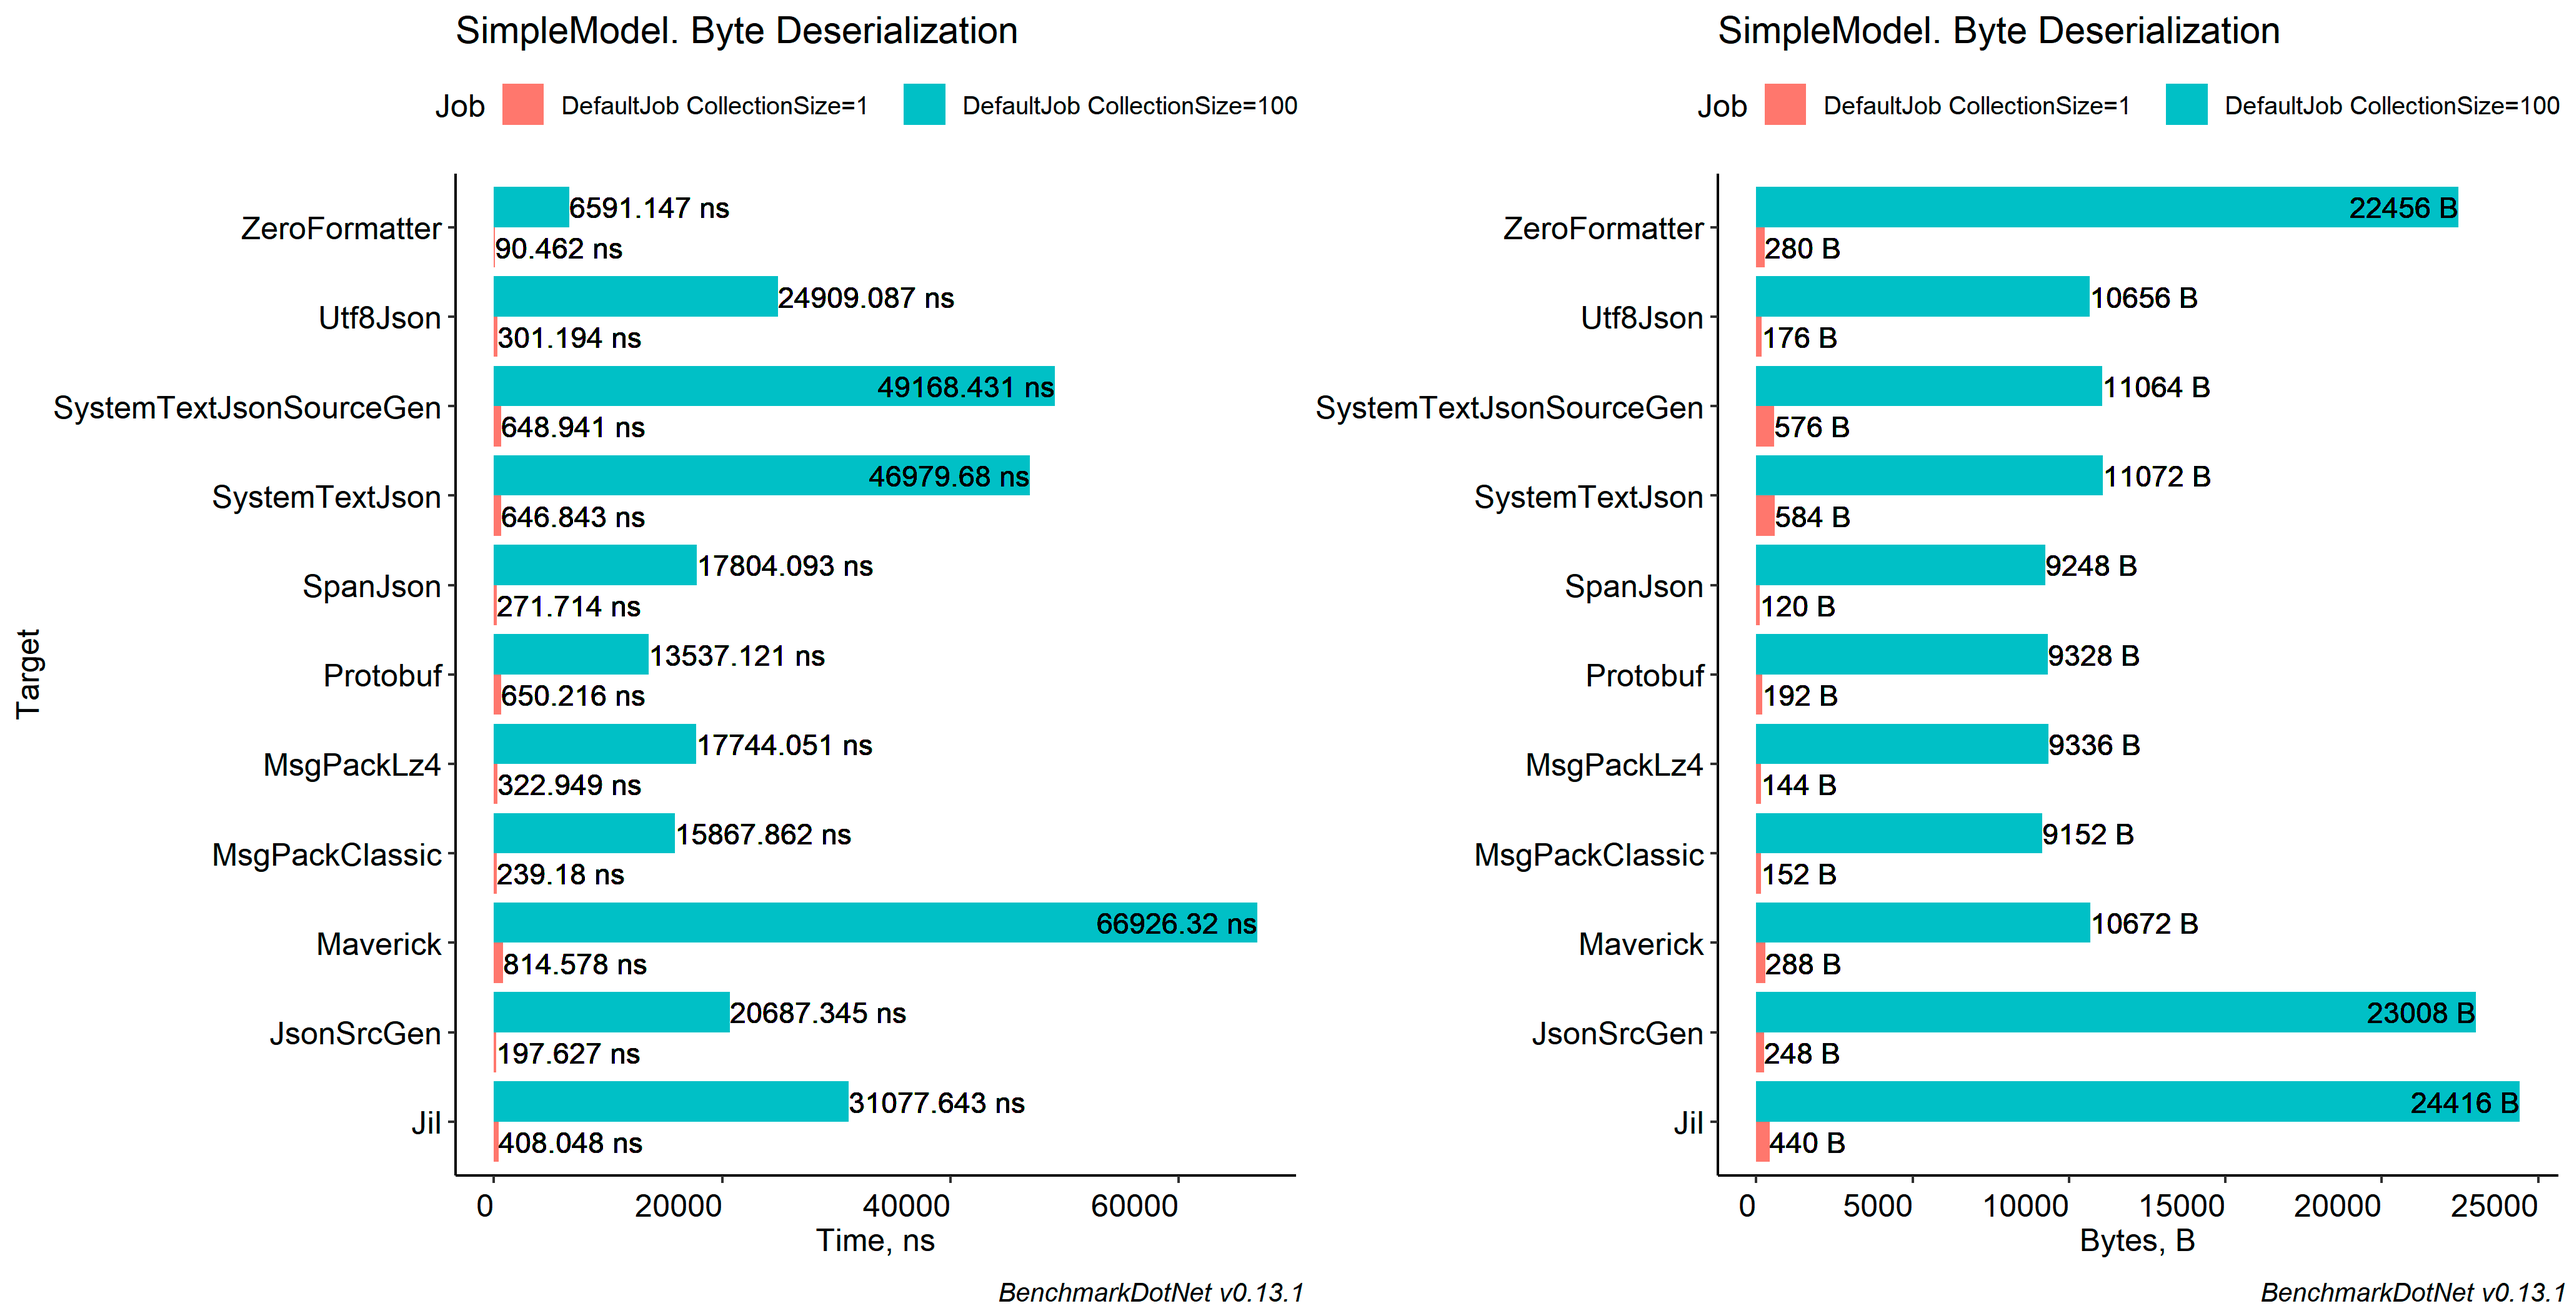
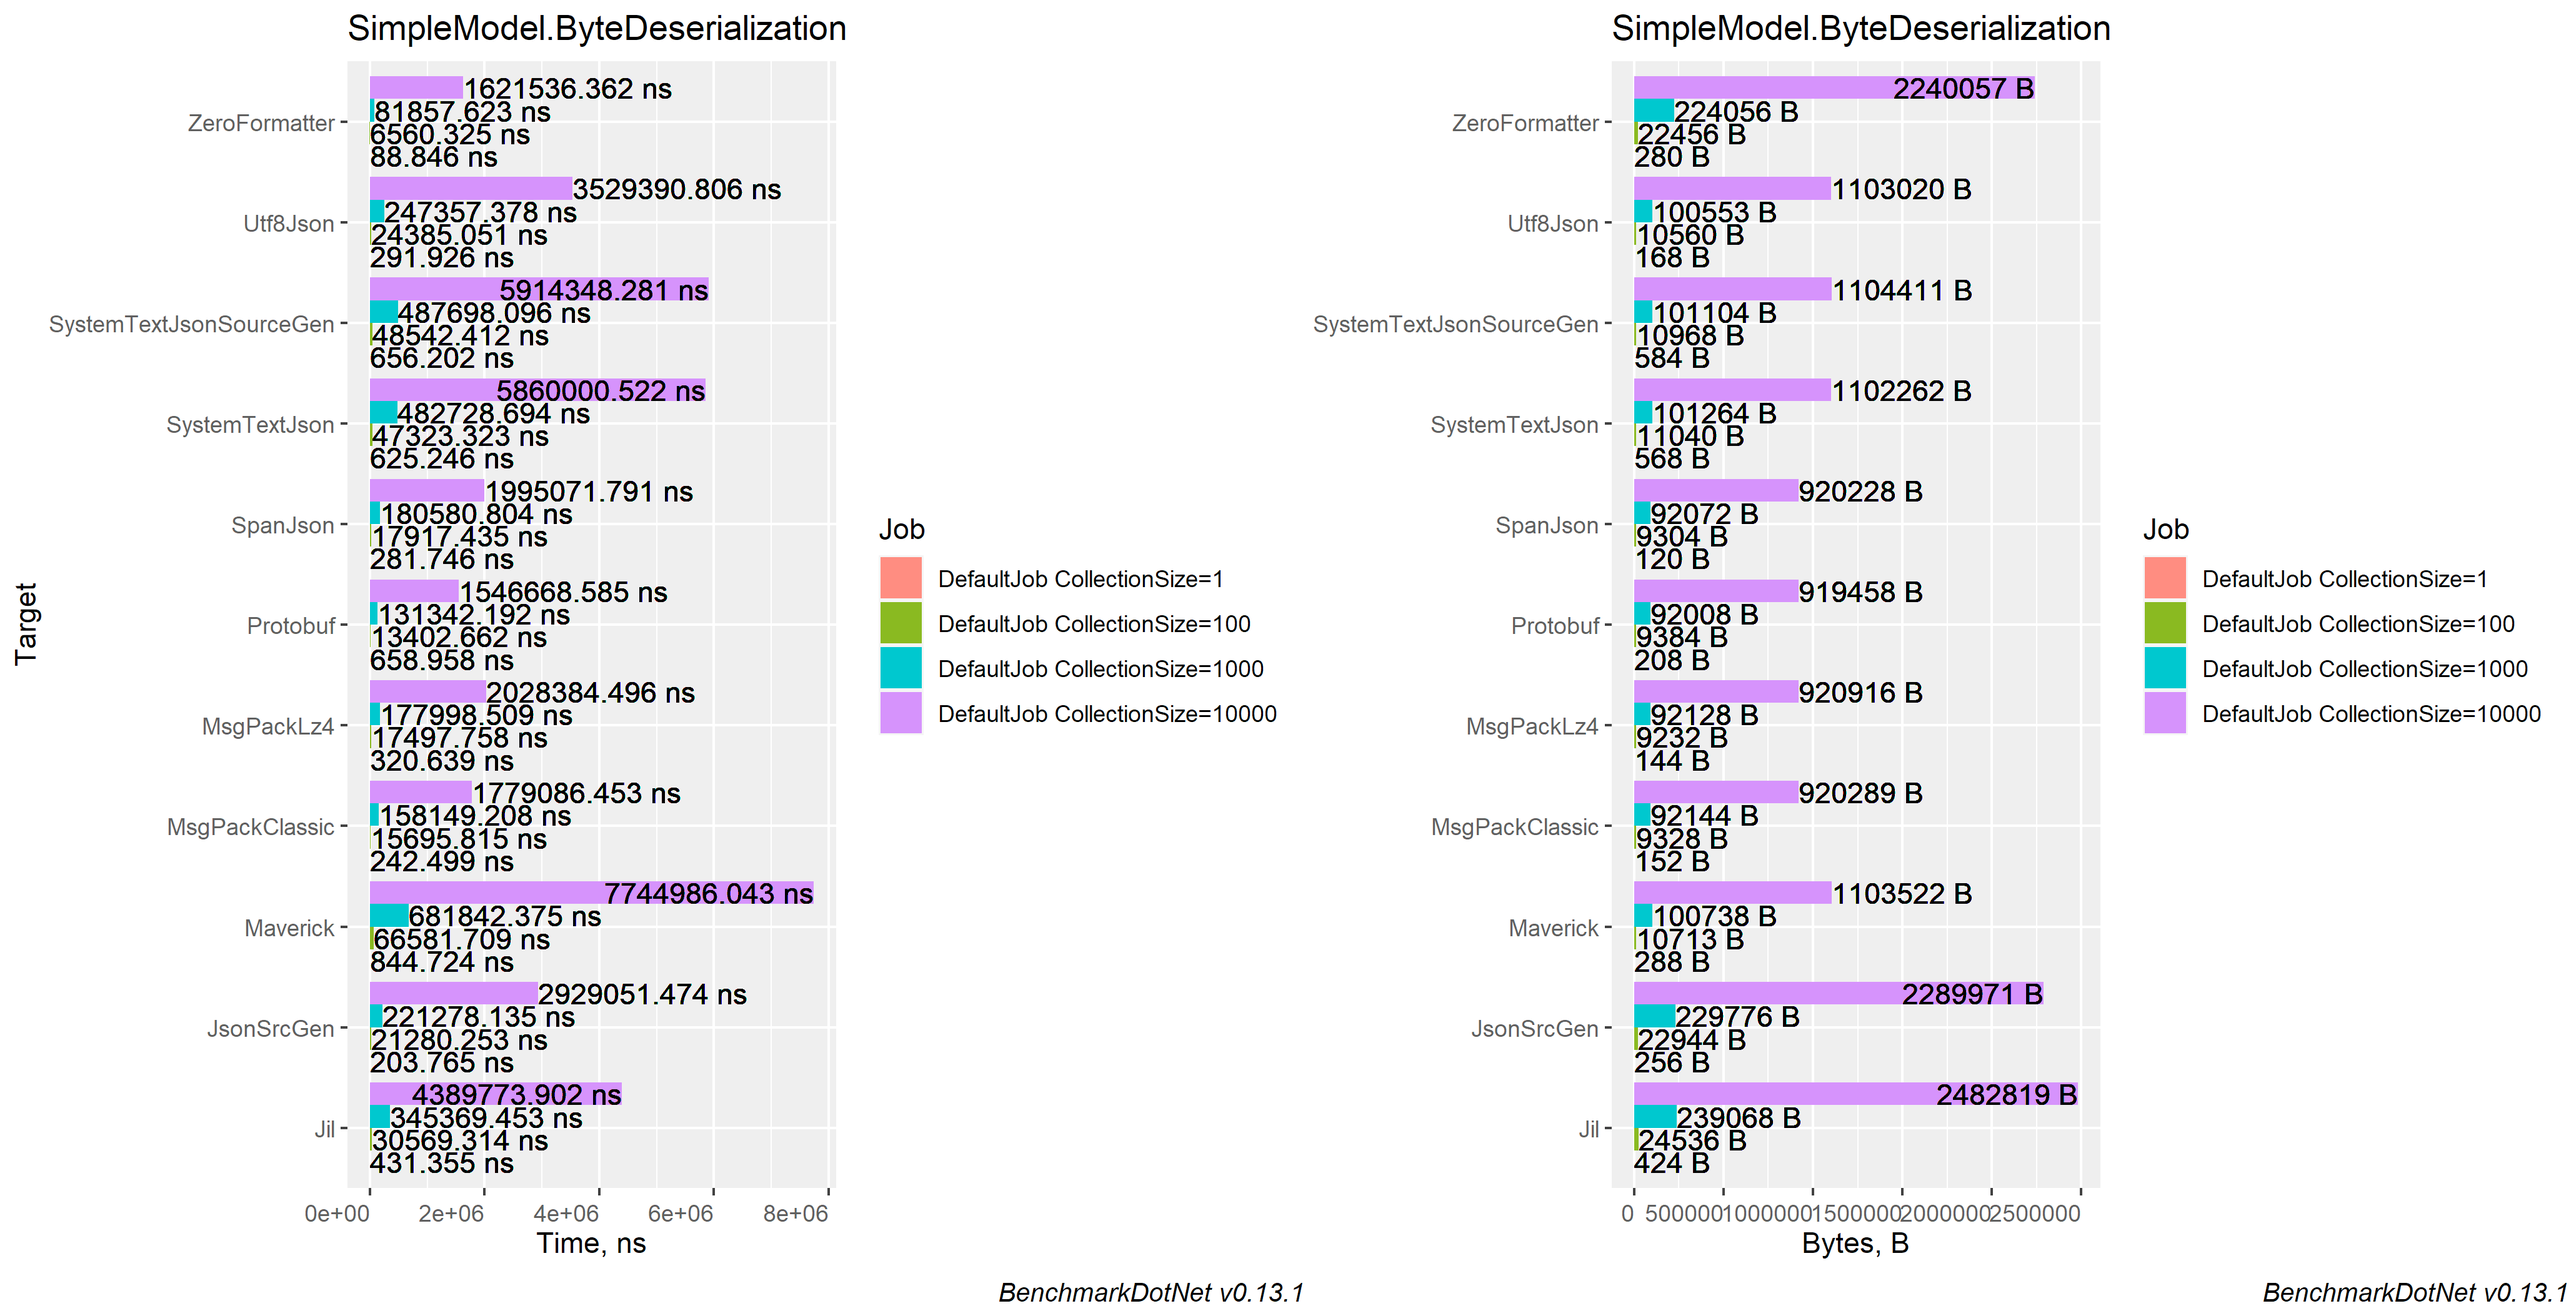
Updated graphs

diff --git a/Json/Json.Benchmarks/Benchmarks/JsonComplexBenchmark.cs b/Json/Json.Benchmarks/Benchmarks/JsonComplexBenchmark.cs
@@ -34,7 +34,7 @@ public class JsonComplexBenchmark
     ///     Size of generation.
     ///     **NOTE:** Intentionally left public for BenchmarkDotNet Params.
     /// </summary>
-    [Params(100)]
+    [Params(1)]
     public int CollectionSize { get; set; }
     
     /// <summary>

diff --git a/Json/Json.Benchmarks/Benchmarks/JsonSimpleBenchmark.cs b/Json/Json.Benchmarks/Benchmarks/JsonSimpleBenchmark.cs
@@ -33,7 +33,7 @@ public class JsonSimpleBenchmark
     ///     Size of generation.
     ///     **NOTE:** Intentionally left public for BenchmarkDotNet Params.
     /// </summary>
-    [Params(100)]
+    [Params(1)]
     public int CollectionSize { get; set; }
     
     /// <summary>

diff --git a/Json/Readme.md b/Json/Readme.md
@@ -112,6 +112,7 @@ Currently, following Json Serialization/Deserialization libraries were used:
 | ServiceStack            | 10000 |  9,075,525.9 ns |  99,487.18 ns |  93,060.37 ns | 24,028.08 ns |       110.19 | 1,743,036 B |
 | Newtonsoft              | 10000 | 12,370,230.3 ns | 198,311.11 ns | 185,500.34 ns | 47,895.98 ns |        80.84 | 1,587,084 B |
 
+![Plot](assets/SimpleModel.Single.StringDeserialization.png)
 ![Plot](assets/SimpleModel.StringDeserialization.png)
 
 <a name="byte-simple-deserialization"></a>
@@ -166,6 +167,7 @@ Currently, following Json Serialization/Deserialization libraries were used:
 | SystemTextJson          | 10000 | 5,992,005.31 ns |  79,189.562 ns |  74,073.966 ns | 19,125.816 ns |        166.9 | 1,103,488 B |
 | Maverick                | 10000 | 7,947,780.99 ns | 151,751.022 ns | 162,371.893 ns | 38,271.422 ns |        125.8 | 1,102,361 B |
 
+![Plot](assets/SimpleModel.Single.ByteDeserialization.png)
 ![Plot](assets/SimpleModel.ByteDeserialization.png)
 
 <a name="stream-simple-deserialization"></a>
@@ -212,6 +214,7 @@ Currently, following Json Serialization/Deserialization libraries were used:
 | Maverick                | 10000 | 7,866,861.1 ns | 111,444.32 ns |  98,792.49 ns | 26,403.40 ns |       127.1 | 1,794,576 B |
 | ServiceStack            | 10000 | 9,925,313.6 ns | 194,365.66 ns | 181,809.75 ns | 46,943.08 ns |       100.8 | 2,455,969 B |
 
+![Plot](assets/SimpleModel.Single.StreamDeserialization.png)
 ![Plot](assets/SimpleModel.StreamDeserialization.png)
 
 <a name="async-stream-simple-deserialization"></a>
@@ -254,6 +257,7 @@ Currently, following Json Serialization/Deserialization libraries were used:
 | SystemTextJsonSourceGen | 10000 | 7,231,093.2 ns |  61,710.41 ns |  51,530.99 ns | 14,292.12 ns |       138.3 | 1,102,781 B |
 | ServiceStack            | 10000 | 9,965,140.6 ns | 198,610.71 ns | 236,431.92 ns | 51,593.67 ns |       100.3 | 2,455,440 B |
 
+![Plot](assets/SimpleModel.Single.AsyncStreamDeserialization.png)
 ![Plot](assets/SimpleModel.AsyncStreamDeserialization.png)
 
 <a name="complex-model-deserialization"></a>
@@ -307,6 +311,7 @@ Currently, following Json Serialization/Deserialization libraries were used:
 | ServiceStack            | 10000 | 327,034.138 μs | 3,144.7504 μs | 2,626.0090 μs |   728.3239 μs |       3.058 |  68,363 KB |
 | Newtonsoft              | 10000 | 402,045.971 μs | 4,790.9913 μs | 4,247.0890 μs | 1,135.0823 μs |       2.487 | 106,200 KB |
 
+![Plot](assets/ComplexModel.Single.StringDeserialization.png)
 ![Plot](assets/ComplexModel.StringDeserialization.png)
 
 <a name="byte-complex-deserialization"></a>
@@ -361,6 +366,7 @@ Currently, following Json Serialization/Deserialization libraries were used:
 | SystemTextJsonSourceGen | 10000 | 208,570,142.9 ns | 3,271,265.13 ns | 2,899,891.33 ns | 775,028.56 ns |         4.795 | 39,945 KB |
 | SystemTextJson          | 10000 | 209,119,533.3 ns | 1,488,657.53 ns | 1,392,491.18 ns | 359,539.68 ns |         4.782 | 39,943 KB |
 
+![Plot](assets/ComplexModel.Single.ByteDeserialization.png)
 ![Plot](assets/ComplexModel.ByteDeserialization.png)
 
 <a name="stream-complex-deserialization"></a>
@@ -407,6 +413,7 @@ Currently, following Json Serialization/Deserialization libraries were used:
 | SystemTextJson          | 10000 | 271,777.540 μs | 4,038.5570 μs | 3,777.6687 μs |   975.3899 μs |       3.679 |  39,946 KB |
 | ServiceStack            | 10000 | 336,766.964 μs | 3,958.6781 μs | 3,509.2650 μs |   937.8905 μs |       2.969 | 118,463 KB |
 
+![Plot](assets/ComplexModel.Single.StreamDeserialization.png)
 ![Plot](assets/ComplexModel.StreamDeserialization.png)
 
 <a name="async-stream-complex-deserialization"></a>
@@ -449,6 +456,7 @@ Currently, following Json Serialization/Deserialization libraries were used:
 | SystemTextJson          | 10000 | 280,499.060 μs | 2,887.0566 μs | 2,700.5546 μs |   697.2802 μs |       3.565 |  39,945 KB |
 | ServiceStack            | 10000 | 358,607.307 μs | 4,361.8764 μs | 3,866.6898 μs | 1,033.4163 μs |       2.789 | 118,471 KB |
 
+![Plot](assets/ComplexModel.Single.AsyncStreamDeserialization.png)
 ![Plot](assets/ComplexModel.AsyncStreamDeserialization.png)
 
 <a name="serialization"></a>
@@ -505,6 +513,7 @@ Currently, following Json Serialization/Deserialization libraries were used:
 | Newtonsoft              | 10000 | 5,912,078.54 ns |  46,917.284 ns |  43,886.457 ns | 11,331.434 ns |        169.1 | 3,260,675 B |
 | ServiceStack            | 10000 | 6,840,329.26 ns | 134,715.325 ns | 175,167.975 ns | 35,756.013 ns |        146.2 | 4,240,052 B |
 
+![Plot](assets/SimpleModel.Single.StringSerialization.png)
 ![Plot](assets/SimpleModel.StringSerialization.png)
 
 <a name="byte-simple-serialization"></a>
@@ -547,6 +556,7 @@ Currently, following Json Serialization/Deserialization libraries were used:
 | MsgPackLz4Block         | 10000 | 1,771,254.67 ns | 19,078.791 ns | 35,834.594 ns | 5,402.268 ns |        564.6 |   224,368 B |
 | SystemTextJson          | 10000 | 2,632,414.23 ns | 19,377.970 ns | 17,178.066 ns | 4,591.031 ns |        379.9 |   691,898 B |
 
+![Plot](assets/SimpleModel.Single.ByteSerialization.png)
 ![Plot](assets/SimpleModel.ByteSerialization.png)
 
 <a name="stream-simple-serialization"></a>
@@ -585,6 +595,7 @@ Currently, following Json Serialization/Deserialization libraries were used:
 | Maverick                | 10000 |  4,045,169.7 ns |  49,191.99 ns |  46,014.22 ns | 11,880.82 ns |       247.21 | 2,092,092 B |
 | ServiceStack            | 10000 | 10,149,708.8 ns | 197,804.54 ns | 211,648.64 ns | 49,886.06 ns |        98.52 | 4,961,474 B |
 
+![Plot](assets/SimpleModel.Single.StreamSerialization.png)
 ![Plot](assets/SimpleModel.StreamSerialization.png)
 
 <a name="async-stream-simple-serialization"></a>
@@ -619,6 +630,7 @@ Currently, following Json Serialization/Deserialization libraries were used:
 | SystemTextJson          | 10000 | 2,793,016.2 ns | 34,977.81 ns | 29,208.06 ns | 8,100.86 ns |       358.0 | 1,877,649 B |
 | SystemTextJsonSourceGen | 10000 | 2,865,082.4 ns | 22,502.09 ns | 19,947.51 ns | 5,331.20 ns |       349.0 | 1,875,137 B |
 
+![Plot](assets/SimpleModel.Single.AsyncStreamSerialization.png)
 ![Plot](assets/SimpleModel.AsyncStreamSerialization.png)
 
 <a name="complex-model-serialization"></a>
@@ -672,6 +684,7 @@ Currently, following Json Serialization/Deserialization libraries were used:
 | ServiceStack            | 10000 | 189,048.959 μs | 3,744.3993 μs | 5,488.4920 μs | 1,019.1874 μs |       5.290 | 131,225 KB |
 | Newtonsoft              | 10000 | 258,177.150 μs | 4,959.2079 μs | 6,090.3527 μs | 1,298.4676 μs |       3.873 | 143,955 KB |
 
+![Plot](assets/ComplexModel.Single.StringSerialization.png)
 ![Plot](assets/ComplexModel.StringSerialization.png)
 
 <a name="byte-complex-serialization"></a>
@@ -714,6 +727,7 @@ Currently, following Json Serialization/Deserialization libraries were used:
 | Utf8Json                | 10000 | 108,272,337.5 ns | 2,102,728.64 ns | 3,273,695.17 ns | 578,713.01 ns |         9.236 | 87,353,472 B |
 | SystemTextJson          | 10000 | 119,428,050.0 ns |   997,335.85 ns |   884,112.26 ns | 236,288.94 ns |         8.373 | 17,081,571 B |
 
+![Plot](assets/ComplexModel.Single.ByteSerialization.png)
 ![Plot](assets/ComplexModel.ByteSerialization.png)
 
 <a name="stream-complex-serialization"></a>
@@ -752,6 +766,7 @@ Currently, following Json Serialization/Deserialization libraries were used:
 | Maverick                | 10000 | 115,430,413.3 ns | 2,283,940.86 ns | 2,136,399.70 ns |   551,616.03 ns |         8.663 |  66,958,816 B |
 | ServiceStack            | 10000 | 206,347,175.0 ns | 4,124,690.87 ns | 4,750,000.14 ns | 1,062,132.32 ns |         4.846 | 167,276,672 B |
 
+![Plot](assets/ComplexModel.Single.StreamDeserialization.png)
 ![Plot](assets/ComplexModel.StreamDeserialization.png)
 
 <a name="async-stream-complex-serialization"></a>
@@ -786,6 +801,7 @@ Currently, following Json Serialization/Deserialization libraries were used:
 | SystemTextJsonSourceGen | 10000 | 117,840.268 μs | 1,739.4272 μs | 1,627.0613 μs | 420.1054 μs |       8.486 | 59,223 KB |
 | SystemTextJson          | 10000 | 118,762.563 μs | 1,641.8328 μs | 1,455.4420 μs | 388.9832 μs |       8.420 |      1.00 |
 
+![Plot](assets/ComplexModel.Single.AsyncStreamSerialization.png)
 ![Plot](assets/ComplexModel.AsyncStreamSerialization.png)
 
 <a name="conclusions"></a>
